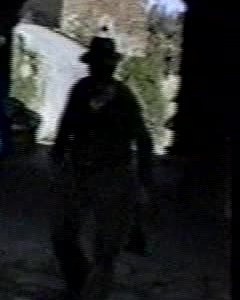
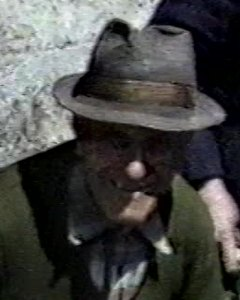
X-Ray verificato dall'utente: Gigino col cappello, Viterbo in terrazza, Malia sul balcone; Romano da localizzare

diff --git a/XRayPlayer.tsx b/XRayPlayer.tsx
@@ -7,21 +7,21 @@ type Persona = { nome: string; img: string };
    (campionamento ogni 8 s). Si correggono qui, senza toccare il video. */
 const C = './memorie/cast/';
 const PERSONE: { nome: string; img: string; intervalli: [number, number][] }[] = [
-  { nome: 'Tiziano', img: C + 'Tiziano.jpg', intervalli: [[12, 56], [292, 504], [584, 596], [956, 968], [1028, 1058]] },
+  { nome: 'Tiziano', img: C + 'Tiziano.jpg', intervalli: [[12, 56], [292, 504], [584, 596], [1028, 1058]] },
   { nome: 'Gelinda', img: C + 'Gelinda.jpg', intervalli: [[54, 174]] },
   { nome: 'Eulario', img: C + 'Eulario.jpg', intervalli: [[194, 286]] },
   { nome: 'Ornella', img: C + 'Ornella.jpg', intervalli: [[286, 472]] },
   { nome: 'Clorinda', img: C + 'Clorinda.jpg', intervalli: [[286, 472]] },
   { nome: 'Giulia', img: C + 'Giulia.jpg', intervalli: [[506, 588]] },
+  { nome: 'Malia', img: C + 'Malia.jpg', intervalli: [[594, 630]] },
   { nome: 'Mary', img: C + 'Mary.jpg', intervalli: [] },
   { nome: 'Irma', img: C + 'Irma.jpg', intervalli: [] },
   { nome: 'Gilda', img: C + 'Gilda.jpg', intervalli: [[738, 832]] },
-  { nome: 'Gustavo', img: C + 'Gustavo.jpg', intervalli: [[900, 928]] },
   { nome: 'Bianca', img: C + 'Bianca.jpg', intervalli: [[836, 886]] },
-  { nome: 'Gigino', img: C + 'Gigino.jpg', intervalli: [[928, 958]] },
+  { nome: 'Gustavo', img: C + 'Gustavo.jpg', intervalli: [[900, 928]] },
+  { nome: 'Gigino', img: C + 'Gigino.jpg', intervalli: [[958, 1004]] },
   { nome: 'Armida', img: C + 'Armida.jpg', intervalli: [[1028, 1058]] },
-  { nome: 'Viterbo "il Fabbro"', img: C + 'Viterbo_il_Fabbro.jpg', intervalli: [[960, 1004]] },
-  { nome: 'Romano', img: C + 'Romano.jpg', intervalli: [[1056, 1098]] },
+  { nome: 'Viterbo "il Fabbro"', img: C + 'Viterbo_il_Fabbro.jpg', intervalli: [[1084, 1098]] },
 ];
 
 /* X-Ray del trailer: stessa logica, timeline del montaggio (cartello 3,2 s + clip da 6,5 s). */
@@ -29,12 +29,13 @@ export const XRAY_TRAILER: { nome: string; img: string; intervalli: [number, num
   { nome: 'Tiziano', img: C + 'Tiziano.jpg', intervalli: [[3.2, 9.7], [22.7, 29.2], [48.7, 55.2]] },
   { nome: 'Gelinda', img: C + 'Gelinda.jpg', intervalli: [[9.7, 16.2]] },
   { nome: 'Eulario', img: C + 'Eulario.jpg', intervalli: [[16.2, 22.7]] },
-  { nome: 'Ornella', img: C + 'Ornella.jpg', intervalli: [[22.7, 29.2]] },
   { nome: 'Clorinda', img: C + 'Clorinda.jpg', intervalli: [[22.7, 29.2]] },
+  { nome: 'Ornella', img: C + 'Ornella.jpg', intervalli: [[22.7, 29.2]] },
   { nome: 'Giulia', img: C + 'Giulia.jpg', intervalli: [[29.2, 35.7]] },
-  { nome: 'Viterbo "il Fabbro"', img: C + 'Viterbo_il_Fabbro.jpg', intervalli: [[42.2, 48.7]] },
+  { nome: 'Malia', img: C + 'Malia.jpg', intervalli: [[35.7, 42.2]] },
+  { nome: 'Gigino', img: C + 'Gigino.jpg', intervalli: [[42.2, 48.7]] },
   { nome: 'Armida', img: C + 'Armida.jpg', intervalli: [[48.7, 55.2]] },
-  { nome: 'Romano', img: C + 'Romano.jpg', intervalli: [[55.2, 61.7]] },
+  { nome: 'Viterbo "il Fabbro"', img: C + 'Viterbo_il_Fabbro.jpg', intervalli: [[55.2, 61.7]] },
 ];
 
 type Dati = typeof PERSONE;

diff --git a/Memorie.tsx b/Memorie.tsx
@@ -3,11 +3,11 @@ import { EMAIL } from './data';
 import XRayPlayer, { XRAY_TRAILER } from './XRayPlayer';
 
 const CAST = [
-  ['Tiziano', 'Tiziano.jpg'], ['Gelinda', 'Gelinda.jpg'], ['Eulario', 'Eulario.jpg'],
-  ['Ornella', 'Ornella.jpg'], ['Clorinda', 'Clorinda.jpg'], ['Giulia', 'Giulia.jpg'], ['Mary', 'Mary.jpg'],
-  ['Irma', 'Irma.jpg'], ['Gilda', 'Gilda.jpg'], ['Bianca', 'Bianca.jpg'],
-  ['Gustavo', 'Gustavo.jpg'], ['Gigino', 'Gigino.jpg'], ['Armida', 'Armida.jpg'],
-  ['Viterbo "il Fabbro"', 'Viterbo_il_Fabbro.jpg'], ['Romano', 'Romano.jpg'],
+  ['Tiziano', 'Tiziano.jpg'], ['Gelinda', 'Gelinda.jpg'], ['Clorinda', 'Clorinda.jpg'],
+  ['Eulario', 'Eulario.jpg'], ['Ornella', 'Ornella.jpg'], ['Giulia', 'Giulia.jpg'],
+  ['Malia', 'Malia.jpg'], ['Mary', 'Mary.jpg'], ['Irma', 'Irma.jpg'],
+  ['Gilda', 'Gilda.jpg'], ['Bianca', 'Bianca.jpg'], ['Gustavo', 'Gustavo.jpg'],
+  ['Gigino', 'Gigino.jpg'], ['Armida', 'Armida.jpg'], ['Viterbo "il Fabbro"', 'Viterbo_il_Fabbro.jpg'],
 ];
 
 export default function Memorie() {

diff --git a/public/service-worker.js b/public/service-worker.js
@@ -1,5 +1,5 @@
 // PWA piattaforma San Martino 2030 — network-first con riserva offline
-const CACHE = 'sm2030-v55';
+const CACHE = 'sm2030-v56';
 const PRECACHE = ['./', './index.html', './manifest.json', './icon-512.png', './icona-app.svg', './canonica.jpg', './stemma-polinago.png'];
 
 self.addEventListener('install', (e) => {
